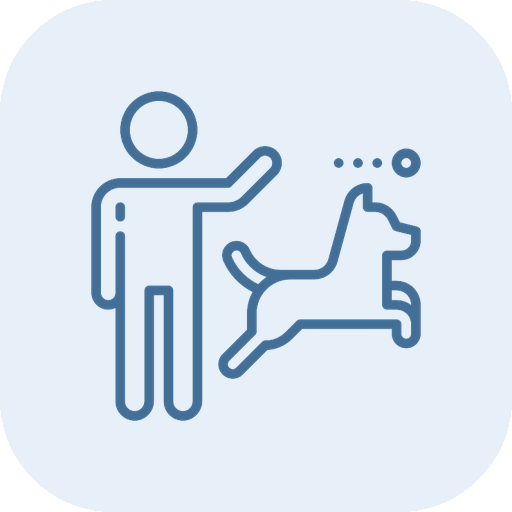
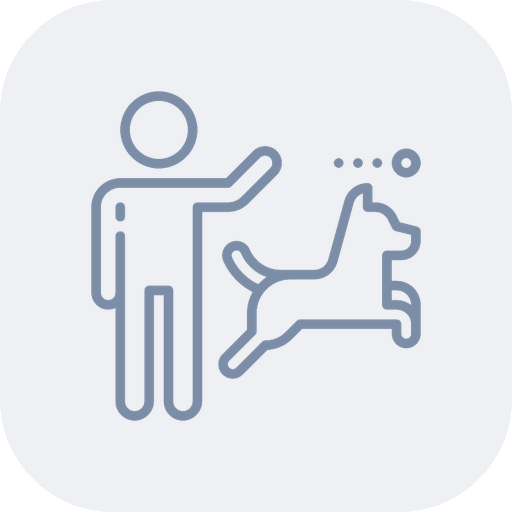
Add files via upload

Changed region(s): [[0.1562, 0.1562, 0.8438, 0.8438]]

diff --git a/styles.css b/styles.css
@@ -1,1 +1,3 @@
-:root{--bg:#f7f5f1;--panel:#fbfaf8;--sidebar:#fbfaf8;--text:#20262a;--muted:#69757d;--faint:#8b969d;--line:#ddd9d1;--blue:#4f7da6;--blue-dark:#315f88;--blue-soft:#e7f0f9;--shadow:0 8px 24px rgba(31,37,41,.07);font-family:Inter,-apple-system,BlinkMacSystemFont,"Segoe UI",sans-serif;color:var(--text);background:var(--bg)}*{box-sizing:border-box}html,body{margin:0;min-height:100%;background:var(--bg)}button,input,select,textarea{font:inherit;color:inherit}button{cursor:pointer}.app-shell{display:grid;grid-template-columns:305px minmax(0,1fr);min-height:100vh}.sidebar{position:sticky;top:0;height:100vh;padding:28px 22px 18px;background:var(--sidebar);border-right:1px solid var(--line);display:flex;flex-direction:column;overflow:auto}.brand-row{display:flex;gap:14px;align-items:center;margin:0 8px 34px}.app-icon{width:54px;height:54px;border-radius:14px;box-shadow:0 2px 8px rgba(58,95,128,.08)}.brand-copy h1{font-family:Literata,Georgia,serif;font-size:30px;line-height:1;margin:0 0 5px;font-weight:600;letter-spacing:-.4px}.brand-copy p{font-size:14px;line-height:1.25;color:var(--muted);margin:0}.nav-section{margin-bottom:25px}.section-label{font-size:12px;letter-spacing:.12em;text-transform:uppercase;font-weight:700;color:#87939b;margin:0 12px 9px}.nav-item{width:100%;border:0;background:transparent;border-radius:13px;display:flex;align-items:center;justify-content:space-between;gap:12px;padding:11px 12px;font-size:17px;line-height:1.2;text-align:left;margin:2px 0;transition:.15s ease}.nav-item:hover{background:#f0ede7}.nav-item.active{background:var(--blue-soft);color:#2e5778}.nav-left{display:flex;align-items:center;gap:12px;min-width:0}.nav-icon{width:20px;height:20px;flex:none}.nav-count{font-size:14px;color:var(--muted);font-variant-numeric:tabular-nums}.area-dot{width:10px;height:10px;border-radius:50%;flex:none}.area-nav.active{background:var(--area-tint,#edf2f6);color:var(--text)}.sidebar-footer{margin-top:auto;border-top:1px solid var(--line);padding:16px 10px 0;display:flex;justify-content:space-between;gap:12px;color:var(--muted);font-size:12px}.status-dot{display:inline-block;width:7px;height:7px;border-radius:50%;background:#4f9868;margin-right:7px}.main-panel{min-width:0}.topbar{position:sticky;top:0;z-index:20;height:96px;border-bottom:1px solid var(--line);background:rgba(247,245,241,.94);backdrop-filter:blur(18px);display:flex;align-items:center;gap:16px;padding:20px 32px}.search-shell{min-width:220px;flex:1;height:54px;border:1px solid #ccd8e4;border-radius:16px;background:#edf4ff;display:flex;align-items:center;gap:12px;padding:0 16px;box-shadow:inset 0 0 0 1px rgba(79,125,166,.03)}.search-shell svg{width:22px;height:22px;color:#587a98;flex:none}.search-shell input{border:0;background:transparent;outline:0;width:100%;font-size:17px;line-height:1;color:var(--text)}.search-shell input::placeholder{color:#72869a}.top-actions{display:flex;align-items:center;gap:12px}.view-toggle{display:flex;border:1px solid var(--line);background:white;border-radius:13px;padding:3px}.view-toggle button{width:42px;height:42px;border:0;border-radius:9px;background:transparent;color:#55636c;display:grid;place-items:center}.view-toggle button.active{background:#e8edf1;color:#1f2c35}.view-toggle svg,.primary-button svg,.outline-button svg{width:19px;height:19px}.primary-button,.secondary-button,.outline-button,.done-button,.text-button{border-radius:11px;padding:11px 15px;border:0;display:inline-flex;align-items:center;justify-content:center;gap:8px;font-size:15px;font-weight:600;white-space:nowrap}.primary-button{background:#20272b;color:#fff}.secondary-button,.outline-button{background:#fff;border:1px solid var(--line);color:#46535c}.text-button{background:transparent;color:var(--blue-dark)}.done-button{background:#20272b;color:white}.content{padding:38px 40px 70px;max-width:1500px}.notice{position:fixed;top:112px;left:50%;transform:translate(-50%,-10px);z-index:60;background:#20272b;color:#fff;padding:11px 16px;border-radius:11px;opacity:0;pointer-events:none;transition:.18s ease;font-size:14px;box-shadow:var(--shadow)}.notice.show{opacity:1;transform:translate(-50%,0)}.heading-row{display:flex;justify-content:space-between;align-items:flex-end;gap:32px;margin-bottom:18px}.heading-copy h2{font-family:Literata,Georgia,serif;font-size:38px;line-height:1.08;margin:0 0 7px;letter-spacing:-.6px;font-weight:600}.heading-copy p{margin:0;color:var(--muted);font-size:15px}.data-tools{display:flex;align-items:flex-end;gap:12px}.filter-wrap,.sort-wrap{position:relative;display:flex;flex-direction:column;gap:6px}.tool-label{font-size:11px;font-weight:700;color:#6f7b83}.outline-button{padding:10px 13px}.filter-badge{min-width:18px;height:18px;border-radius:9px;background:#e4e8eb;font-size:10px;display:none;align-items:center;justify-content:center}.filter-badge.show{display:inline-flex}.sort-wrap select{height:42px;border:1px solid var(--line);border-radius:11px;background:#fff;padding:0 34px 0 12px;font-size:14px}.filter-panel{position:absolute;right:0;top:65px;width:340px;background:#fff;border:1px solid var(--line);border-radius:15px;box-shadow:0 18px 48px rgba(26,32,36,.14);padding:18px;display:none;z-index:40}.filter-panel.show{display:block}.filter-panel h3{font-family:Literata,Georgia,serif;margin:0 0 14px;font-size:20px}.filter-field{margin:12px 0}.filter-field label,.field label{display:block;font-size:12px;font-weight:700;color:#6d7880;margin-bottom:6px}.filter-field input,.filter-field select,.field input,.field select,.field textarea{width:100%;border:1px solid var(--line);background:#fff;border-radius:10px;padding:10px 11px;outline:0;font-size:14px}.filter-field input:focus,.filter-field select:focus,.field input:focus,.field select:focus,.field textarea:focus{border-color:#9eb7cf;box-shadow:0 0 0 3px rgba(79,125,166,.1)}.filter-actions{display:flex;justify-content:space-between;align-items:center;margin-top:16px}.active-filters{display:flex;flex-wrap:wrap;gap:8px;min-height:8px;margin-bottom:18px}.filter-chip{border:1px solid #cfd7de;background:#f6f8fa;color:#41515d;border-radius:999px;padding:7px 11px;font-size:12px;display:flex;align-items:center;gap:7px}.filter-chip b{font-weight:600}.filter-chip span{font-size:14px;color:#75828b}.items{display:grid;gap:20px}.items.cards{grid-template-columns:repeat(auto-fill,minmax(310px,360px));align-items:start}.items.gallery{grid-template-columns:repeat(auto-fill,minmax(390px,1fr));align-items:start}.items.list{display:flex;flex-direction:column;max-width:1050px}.item-card{position:relative;background:#fff;border:1px solid var(--line);border-radius:17px;overflow:hidden;box-shadow:0 2px 6px rgba(31,37,41,.025);transition:transform .14s ease,box-shadow .14s ease,border-color .14s ease;cursor:pointer}.item-card:hover{transform:translateY(-1px);box-shadow:var(--shadow);border-color:#d1ccc3}.shot-wrap{position:relative;background:#ece9e2;overflow:hidden}.cards .shot-wrap{aspect-ratio:1.38}.gallery .shot-wrap{aspect-ratio:16/9}.shot-wrap img{width:100%;height:100%;object-fit:cover;display:block}.shot-fallback{height:100%;display:grid;place-items:center;padding:28px;text-align:center;color:#6b777f;background:linear-gradient(145deg,#f0ede8,#e4e9ed)}.type-pill{position:absolute;top:12px;left:12px;background:rgba(32,39,43,.78);color:#fff;border-radius:999px;padding:6px 10px;font-size:11px;font-weight:600;backdrop-filter:blur(6px)}.star-button{position:absolute;top:10px;right:10px;width:38px;height:38px;border-radius:10px;border:1px solid rgba(255,255,255,.65);background:rgba(32,39,43,.72);color:#fff;display:grid;place-items:center;z-index:3}.star-button svg{width:20px;height:20px}.star-button.is-starred svg{fill:currentColor}.card-body{padding:15px 16px 16px}.item-title{font-size:18px;line-height:1.28;font-weight:700;margin:0 0 9px;letter-spacing:-.18px}.item-meta{display:flex;align-items:center;justify-content:space-between;gap:12px;color:var(--muted);font-size:13px}.domain-line{display:flex;align-items:center;gap:7px;min-width:0}.domain-line span:last-child{overflow:hidden;text-overflow:ellipsis;white-space:nowrap}.tags-row{display:flex;flex-wrap:wrap;gap:6px;margin-top:12px}.area-chip,.tag-chip{border-radius:999px;padding:5px 9px;font-size:11px;border:1px solid transparent;line-height:1.1}.area-chip{background:var(--area-tint,#edf2f6);color:#33434e;font-weight:600;display:inline-flex;align-items:center;gap:6px}.area-chip .area-dot{width:7px;height:7px}.tag-chip{background:#f2f3f4;border-color:#e2e4e5;color:#50606a}.tag-chip:hover{background:#e9eef2}.page-date{white-space:nowrap}.list .item-card{display:grid;grid-template-columns:290px minmax(0,1fr);min-height:182px}.list .shot-wrap{height:100%;min-height:182px}.list .card-body{padding:24px 24px;display:flex;flex-direction:column;justify-content:center}.list .item-title{font-size:20px}.list .star-button{top:14px;left:238px;right:auto}.list .item-meta{justify-content:flex-start;gap:22px}.gallery .item-title{font-size:20px}.gallery .card-body{padding:17px 18px 18px}.empty{display:none;color:var(--muted);padding:80px 10px;font-size:16px}.empty.show{display:block}.backdrop{position:fixed;inset:0;background:rgba(31,37,41,.26);backdrop-filter:blur(3px);display:none;align-items:center;justify-content:center;padding:24px;z-index:100}.backdrop.show{display:flex}.dialog{width:min(580px,100%);max-height:90vh;overflow:auto;background:#fbfaf8;border:1px solid var(--line);border-radius:18px;padding:23px;box-shadow:0 28px 70px rgba(20,26,30,.22)}.wide-dialog{width:min(720px,100%)}.dialog h3{font-family:Literata,Georgia,serif;font-size:24px;margin:0 0 5px}.dialog>p{margin:0 0 18px;color:var(--muted);font-size:14px;line-height:1.5}.field{margin:13px 0}.field-row{display:grid;grid-template-columns:1fr 1fr;gap:12px}.field textarea{min-height:90px;resize:vertical}.optional{font-weight:400;color:#9aa2a7}.dialog-actions{display:flex;justify-content:flex-end;gap:9px;margin-top:19px}.action-field{display:flex;align-items:flex-end}.copy-row{display:flex;gap:8px}.copy-row input{flex:1}.token-warning{font-size:12px;color:#8b5a4e}.device-list{margin-top:20px;border-top:1px solid var(--line)}.device-row{display:flex;justify-content:space-between;gap:12px;padding:13px 0;border-bottom:1px solid var(--line)}.device-row strong,.device-row span{display:block}.device-row span{font-size:12px;color:var(--muted);margin-top:3px}.device-row button{border:1px solid var(--line);background:white;border-radius:8px;padding:7px 9px}.account-nav{margin-top:4px}@media(max-width:900px){.app-shell{grid-template-columns:1fr}.sidebar{position:relative;height:auto;border-right:0;border-bottom:1px solid var(--line)}.topbar{top:0}.content{padding:28px 22px 60px}.heading-row{align-items:flex-start;flex-direction:column}.data-tools{width:100%;justify-content:flex-end}.items.cards{grid-template-columns:repeat(auto-fill,minmax(280px,1fr))}}@media(max-width:620px){.sidebar{padding:20px 16px}.brand-row{margin-bottom:22px}.topbar{height:auto;padding:12px 14px;flex-wrap:wrap}.search-shell{order:1;width:100%;flex-basis:100%;height:50px}.top-actions{width:100%;justify-content:space-between}.content{padding:24px 14px 50px}.heading-copy h2{font-size:32px}.data-tools{justify-content:space-between}.filter-panel{position:fixed;inset:auto 12px 12px 12px;width:auto;top:auto}.items.cards,.items.gallery{grid-template-columns:1fr}.list .item-card{grid-template-columns:125px minmax(0,1fr);min-height:130px}.list .shot-wrap{min-height:130px}.list .star-button{left:79px;width:34px;height:34px}.list .card-body{padding:14px}.list .item-title{font-size:15px}.list .tags-row{display:none}.field-row{grid-template-columns:1fr}}
+:root{--bg:#f7f5f1;--panel:#fbfaf8;--sidebar:#fbfaf8;--text:#20262a;--muted:#69757d;--faint:#8b969d;--line:#ddd9d1;--blue:#7c8da7;--blue-dark:#5f7089;--blue-soft:#e9edf3;--shadow:0 8px 24px rgba(31,37,41,.07);font-family:Inter,-apple-system,BlinkMacSystemFont,"Segoe UI",sans-serif;color:var(--text);background:var(--bg)}*{box-sizing:border-box}html,body{margin:0;min-height:100%;background:var(--bg)}button,input,select,textarea{font:inherit;color:inherit}button{cursor:pointer}.app-shell{display:grid;grid-template-columns:305px minmax(0,1fr);min-height:100vh}.sidebar{position:sticky;top:0;height:100vh;padding:28px 22px 18px;background:var(--sidebar);border-right:1px solid var(--line);display:flex;flex-direction:column;overflow:auto}.brand-row{display:flex;gap:14px;align-items:center;margin:0 8px 34px}.app-icon{width:54px;height:54px;border-radius:14px;box-shadow:0 2px 8px rgba(96,112,137,.08)}.brand-copy h1{font-family:Literata,Georgia,serif;font-size:30px;line-height:1;margin:0 0 5px;font-weight:600;letter-spacing:-.4px}.brand-copy p{font-size:14px;line-height:1.25;color:var(--muted);margin:0}.nav-section{margin-bottom:25px}.section-label{font-size:12px;letter-spacing:.12em;text-transform:uppercase;font-weight:700;color:#87939b;margin:0 12px 9px}.nav-item{width:100%;border:0;background:transparent;border-radius:13px;display:flex;align-items:center;justify-content:space-between;gap:12px;padding:11px 12px;font-size:17px;line-height:1.2;text-align:left;margin:2px 0;transition:.15s ease}.nav-item:hover{background:#f0ede7}.nav-item.active{background:var(--blue-soft);color:#4f5f76}.nav-left{display:flex;align-items:center;gap:12px;min-width:0}.nav-icon{width:20px;height:20px;flex:none}.nav-count{font-size:14px;color:var(--muted);font-variant-numeric:tabular-nums}.area-dot{width:10px;height:10px;border-radius:50%;flex:none}.area-nav.active{background:var(--area-tint,#edf2f6);color:var(--text)}.sidebar-footer{margin-top:auto;border-top:1px solid var(--line);padding:16px 10px 0;display:flex;justify-content:space-between;gap:12px;color:var(--muted);font-size:12px}.status-dot{display:inline-block;width:7px;height:7px;border-radius:50%;background:#4f9868;margin-right:7px}.main-panel{min-width:0}.topbar{position:sticky;top:0;z-index:20;height:96px;border-bottom:1px solid var(--line);background:rgba(247,245,241,.94);backdrop-filter:blur(18px);display:flex;align-items:center;gap:16px;padding:20px 32px}.search-shell{min-width:220px;flex:1;height:54px;border:1px solid #d2d8e0;border-radius:16px;background:#eef1f5;display:flex;align-items:center;gap:12px;padding:0 16px;box-shadow:inset 0 0 0 1px rgba(124,141,167,.03)}.search-shell svg{width:22px;height:22px;color:var(--blue-dark);flex:none}.search-box{border:0;background:transparent;outline:0;width:100%;font-size:17px;line-height:1.3;color:var(--text);white-space:nowrap;overflow:hidden;min-height:22px}.search-box:empty::before{content:attr(data-placeholder);color:#778394;pointer-events:none}.search-box:focus{outline:none}.top-actions{display:flex;align-items:center;gap:12px}.view-toggle{display:flex;border:1px solid var(--line);background:white;border-radius:13px;padding:3px}.view-toggle button{width:42px;height:42px;border:0;border-radius:9px;background:transparent;color:#55636c;display:grid;place-items:center}.view-toggle button.active{background:#e8edf1;color:#1f2c35}.view-toggle svg,.primary-button svg,.outline-button svg{width:19px;height:19px}.primary-button,.secondary-button,.outline-button,.done-button,.text-button{border-radius:11px;padding:11px 15px;border:0;display:inline-flex;align-items:center;justify-content:center;gap:8px;font-size:15px;font-weight:600;white-space:nowrap}.primary-button{background:#20272b;color:#fff}.secondary-button,.outline-button{background:#fff;border:1px solid var(--line);color:#46535c}.text-button{background:transparent;color:var(--blue-dark)}.done-button{background:#20272b;color:white}.content{padding:38px 40px 70px;max-width:1500px}.notice{position:fixed;top:112px;left:50%;transform:translate(-50%,-10px);z-index:60;background:#20272b;color:#fff;padding:11px 16px;border-radius:11px;opacity:0;pointer-events:none;transition:.18s ease;font-size:14px;box-shadow:var(--shadow)}.notice.show{opacity:1;transform:translate(-50%,0)}.heading-row{display:flex;justify-content:space-between;align-items:flex-end;gap:32px;margin-bottom:18px}.heading-copy h2{font-family:Literata,Georgia,serif;font-size:38px;line-height:1.08;margin:0 0 7px;letter-spacing:-.6px;font-weight:600}.heading-copy p{margin:0;color:var(--muted);font-size:15px}.data-tools{display:flex;align-items:flex-end;gap:12px}.filter-wrap,.sort-wrap{position:relative;display:flex;flex-direction:column;gap:6px}.tool-label{font-size:11px;font-weight:700;color:#6f7b83}.outline-button{padding:10px 13px}.filter-badge{min-width:18px;height:18px;border-radius:9px;background:#e4e8eb;font-size:10px;display:none;align-items:center;justify-content:center}.filter-badge.show{display:inline-flex}.sort-wrap select{height:42px;border:1px solid var(--line);border-radius:11px;background:#fff;padding:0 34px 0 12px;font-size:14px}.filter-panel{position:absolute;right:0;top:65px;width:340px;background:#fff;border:1px solid var(--line);border-radius:15px;box-shadow:0 18px 48px rgba(26,32,36,.14);padding:18px;display:none;z-index:40}.filter-panel.show{display:block}.filter-panel h3{font-family:Literata,Georgia,serif;margin:0 0 14px;font-size:20px}.filter-field{margin:12px 0}.filter-field label,.field label{display:block;font-size:12px;font-weight:700;color:#6d7880;margin-bottom:6px}.filter-field input,.filter-field select,.field input,.field select,.field textarea{width:100%;border:1px solid var(--line);background:#fff;border-radius:10px;padding:10px 11px;outline:0;font-size:14px}.filter-field input:focus,.filter-field select:focus,.field input:focus,.field select:focus,.field textarea:focus{border-color:#aeb8c7;box-shadow:0 0 0 3px rgba(124,141,167,.12)}.filter-actions{display:flex;justify-content:space-between;align-items:center;margin-top:16px}.active-filters{display:flex;flex-wrap:wrap;gap:8px;min-height:8px;margin-bottom:18px}.filter-chip{border:1px solid #cfd7de;background:#f6f8fa;color:#41515d;border-radius:999px;padding:7px 11px;font-size:12px;display:flex;align-items:center;gap:7px}.filter-chip b{font-weight:600}.filter-chip span{font-size:14px;color:#75828b}.items{display:grid;gap:20px}.items.cards{grid-template-columns:repeat(auto-fill,minmax(310px,360px));align-items:start}.items.gallery{grid-template-columns:repeat(auto-fill,minmax(390px,1fr));align-items:start}.items.list{display:flex;flex-direction:column;max-width:1050px}.item-card{position:relative;background:#fff;border:1px solid var(--line);border-radius:17px;overflow:hidden;box-shadow:0 2px 6px rgba(31,37,41,.025);transition:transform .14s ease,box-shadow .14s ease,border-color .14s ease;cursor:pointer}.item-card:hover{transform:translateY(-1px);box-shadow:var(--shadow);border-color:#d1ccc3}.shot-wrap{position:relative;background:#ece9e2;overflow:hidden}.cards .shot-wrap{aspect-ratio:1.38}.gallery .shot-wrap{aspect-ratio:16/9}.shot-wrap img{width:100%;height:100%;object-fit:cover;display:block}.shot-fallback{height:100%;display:grid;place-items:center;padding:28px;text-align:center;color:#6b777f;background:linear-gradient(145deg,#f0ede8,#e4e9ed)}.type-pill{position:absolute;top:12px;left:12px;background:rgba(32,39,43,.78);color:#fff;border-radius:999px;padding:6px 10px;font-size:11px;font-weight:600;backdrop-filter:blur(6px)}.star-button{position:absolute;top:10px;right:10px;width:38px;height:38px;border-radius:10px;border:1px solid rgba(255,255,255,.65);background:rgba(32,39,43,.72);color:#fff;display:grid;place-items:center;z-index:3}.star-button svg{width:20px;height:20px}.star-button.is-starred svg{fill:currentColor}.card-body{padding:15px 16px 16px}.item-title{font-size:18px;line-height:1.28;font-weight:700;margin:0 0 9px;letter-spacing:-.18px}.item-meta{display:flex;align-items:center;justify-content:space-between;gap:12px;color:var(--muted);font-size:13px}.domain-line{display:flex;align-items:center;gap:7px;min-width:0}.domain-line span:last-child{overflow:hidden;text-overflow:ellipsis;white-space:nowrap}.tags-row{display:flex;flex-wrap:wrap;gap:6px;margin-top:12px}.area-chip,.tag-chip{border-radius:999px;padding:5px 9px;font-size:11px;border:1px solid transparent;line-height:1.1}.area-chip{background:var(--area-tint,#edf2f6);color:#33434e;font-weight:600;display:inline-flex;align-items:center;gap:6px}.area-chip .area-dot{width:7px;height:7px}.tag-chip{background:#f2f3f4;border-color:#e2e4e5;color:#50606a}.tag-chip:hover{background:#e9eef2}.page-date{white-space:nowrap}.list .item-card{display:grid;grid-template-columns:290px minmax(0,1fr);min-height:182px}.list .shot-wrap{height:100%;min-height:182px}.list .card-body{padding:24px 24px;display:flex;flex-direction:column;justify-content:center}.list .item-title{font-size:20px}.list .star-button{top:14px;left:238px;right:auto}.list .item-meta{justify-content:flex-start;gap:22px}.gallery .item-title{font-size:20px}.gallery .card-body{padding:17px 18px 18px}.empty{display:none;color:var(--muted);padding:80px 10px;font-size:16px}.empty.show{display:block}.backdrop{position:fixed;inset:0;background:rgba(31,37,41,.26);backdrop-filter:blur(3px);display:none;align-items:center;justify-content:center;padding:24px;z-index:100}.backdrop.show{display:flex}.dialog{width:min(580px,100%);max-height:90vh;overflow:auto;background:#fbfaf8;border:1px solid var(--line);border-radius:18px;padding:23px;box-shadow:0 28px 70px rgba(20,26,30,.22)}.wide-dialog{width:min(720px,100%)}.dialog h3{font-family:Literata,Georgia,serif;font-size:24px;margin:0 0 5px}.dialog>p{margin:0 0 18px;color:var(--muted);font-size:14px;line-height:1.5}.field{margin:13px 0}.field-row{display:grid;grid-template-columns:1fr 1fr;gap:12px}.field textarea{min-height:90px;resize:vertical}.optional{font-weight:400;color:#9aa2a7}.dialog-actions{display:flex;justify-content:flex-end;gap:9px;margin-top:19px}.action-field{display:flex;align-items:flex-end}.copy-row{display:flex;gap:8px}.copy-row input{flex:1}.token-warning{font-size:12px;color:#8b5a4e}.device-list{margin-top:20px;border-top:1px solid var(--line)}.device-row{display:flex;justify-content:space-between;gap:12px;padding:13px 0;border-bottom:1px solid var(--line)}.device-row strong,.device-row span{display:block}.device-row span{font-size:12px;color:var(--muted);margin-top:3px}.device-row button{border:1px solid var(--line);background:white;border-radius:8px;padding:7px 9px}.account-nav{margin-top:4px}@media(max-width:900px){.app-shell{grid-template-columns:1fr}.sidebar{position:relative;height:auto;border-right:0;border-bottom:1px solid var(--line)}.topbar{top:0}.content{padding:28px 22px 60px}.heading-row{align-items:flex-start;flex-direction:column}.data-tools{width:100%;justify-content:flex-end}.items.cards{grid-template-columns:repeat(auto-fill,minmax(280px,1fr))}}@media(max-width:620px){.sidebar{padding:20px 16px}.brand-row{margin-bottom:22px}.topbar{height:auto;padding:12px 14px;flex-wrap:wrap}.search-shell{order:1;width:100%;flex-basis:100%;height:50px}.top-actions{width:100%;justify-content:space-between}.content{padding:24px 14px 50px}.heading-copy h2{font-size:32px}.data-tools{justify-content:space-between}.filter-panel{position:fixed;inset:auto 12px 12px 12px;width:auto;top:auto}.items.cards,.items.gallery{grid-template-columns:1fr}.list .item-card{grid-template-columns:125px minmax(0,1fr);min-height:130px}.list .shot-wrap{min-height:130px}.list .star-button{left:79px;width:34px;height:34px}.list .card-body{padding:14px}.list .item-title{font-size:15px}.list .tags-row{display:none}.field-row{grid-template-columns:1fr}}
+
+.hover-preview{position:fixed;z-index:90;pointer-events:none;width:min(680px,48vw);aspect-ratio:16/10;border-radius:16px;overflow:hidden;border:1px solid rgba(255,255,255,.78);box-shadow:0 28px 90px rgba(0,0,0,.26);opacity:0;transform:scale(.96);transition:opacity .12s ease,transform .12s ease;background:#fff}.hover-preview.show{opacity:1;transform:scale(1)}.hover-preview img{width:100%;height:100%;object-fit:cover;display:block}.hover-preview .shot-fallback{width:100%;height:100%}@media(max-width:900px){.hover-preview{display:none}}

diff --git a/app.js b/app.js
@@ -5,8 +5,8 @@ const $ = id => document.getElementById(id);
 const esc = (v='') => String(v).replace(/[&<>"']/g,m=>({'&':'&amp;','<':'&lt;','>':'&gt;','"':'&quot;',"'":'&#39;'}[m]));
 const safeJSON=(v,f)=>{try{return v?JSON.parse(v):f}catch{return f}};
 const now=()=>new Date();
-const AREA_COLORS={Watches:'#5b82a4',Technology:'#5a9163',Books:'#8a6bb0',Reading:'#8a6bb0',Restaurants:'#b77554','Food & Drink':'#b77554',Photography:'#b18454',Travel:'#568f94'};
-const COLOR_POOL=['#5b82a4','#5a9163','#8a6bb0','#b77554','#b18454','#568f94','#8b7a68','#6b879b'];
+const AREA_COLORS={Watches:'#7c8da7',Technology:'#718d75',Books:'#8a789f',Reading:'#8a789f',Restaurants:'#a97d68','Food & Drink':'#a97d68',Photography:'#9b8268',Travel:'#6f9295'};
+const COLOR_POOL=['#7c8da7','#718d75','#8a789f','#a97d68','#9b8268','#6f9295','#8b7f72','#728696'];
 let items=[],store=null,supabaseClient=null,currentUser=null,searchInput=null;
 const prefs=safeJSON(localStorage.getItem(PREF_KEY),{});
 const state={area:null,tag:null,domain:'',special:'all',query:'',date:null,pageDate:null,type:null,sort:prefs.sort||'newest',view:prefs.view||'cards'};
@@ -61,13 +61,32 @@ async function initStore(){
   const {createClient}=await import('https://cdn.jsdelivr.net/npm/@supabase/supabase-js@2/+esm');
   supabaseClient=createClient(CONFIG.supabaseUrl,CONFIG.supabaseAnonKey,{auth:{persistSession:true,detectSessionInUrl:true,autoRefreshToken:true}});
   const {data:{session}}=await supabaseClient.auth.getSession();currentUser=session?.user||null;store=new SupabaseStore(supabaseClient);$('modeLabel').innerHTML='<span class="status-dot"></span>Supabase';
-  supabaseClient.auth.onAuthStateChange(async(_event,session)=>{currentUser=session?.user||null;updateAccountUI();await refresh()});
+  supabaseClient.auth.onAuthStateChange((event,session)=>{
+   const previousUserId=currentUser?.id||null;
+   const nextUser=session?.user||null;
+   const nextUserId=nextUser?.id||null;
+   currentUser=nextUser;
+   updateAccountUI();
+   // Supabase may emit SIGNED_IN/TOKEN_REFRESHED again when a tab regains focus.
+   // Do not rebuild the library unless the actual account changed.
+   if(previousUserId!==nextUserId){setTimeout(()=>refresh(),0)}
+  });
  }catch(err){console.error(err);store=new LocalStore();await store.init();$('modeLabel').textContent='Local fallback';showNotice('Could not connect to Supabase; using local test mode.',5000)}
 }
 
 function makeSearch(){
- const host=$('searchHost'); searchInput=document.createElement('input');searchInput.type='text';searchInput.placeholder='Search your library…';searchInput.setAttribute('aria-label','Search your Fetch library');searchInput.setAttribute('autocomplete','off');searchInput.setAttribute('autocorrect','off');searchInput.setAttribute('spellcheck','false');searchInput.value='';host.appendChild(searchInput);
- searchInput.addEventListener('input',()=>{const v=searchInput.value.trim();if(CONFIG.supabaseUrl&&v.includes('supabase.co')){searchInput.value='';state.query='';return render()}state.query=searchInput.value;render()});
+ const host=$('searchHost');
+ searchInput=document.createElement('div');
+ searchInput.className='search-box';
+ searchInput.setAttribute('contenteditable','true');
+ searchInput.setAttribute('role','searchbox');
+ searchInput.setAttribute('aria-label','Search your Fetch library');
+ searchInput.setAttribute('data-placeholder','Search your library…');
+ searchInput.setAttribute('spellcheck','false');
+ host.appendChild(searchInput);
+ searchInput.addEventListener('keydown',e=>{if(e.key==='Enter')e.preventDefault()});
+ searchInput.addEventListener('paste',e=>{e.preventDefault();const text=(e.clipboardData||window.clipboardData).getData('text/plain').replace(/[\r\n]+/g,' ');document.execCommand('insertText',false,text)});
+ searchInput.addEventListener('input',()=>{state.query=(searchInput.textContent||'').replace(/[\r\n]+/g,' ');render()});
 }
 function allAreas(){return [...new Set(items.map(i=>i.category).filter(Boolean))].sort((a,b)=>a.localeCompare(b))}
 function allTags(area=null){const pool=area?items.filter(i=>i.category===area):items;return [...new Set(pool.flatMap(i=>i.tags||[]))].sort((a,b)=>a.localeCompare(b))}
@@ -96,13 +115,34 @@ function getFiltered(){
  const cmp={newest:(a,b)=>new Date(b.saved_at)-new Date(a.saved_at),oldest:(a,b)=>new Date(a.saved_at)-new Date(b.saved_at),'page-newest':(a,b)=>(b.page_date||'').localeCompare(a.page_date||''),'page-oldest':(a,b)=>(a.page_date||'9999').localeCompare(b.page_date||'9999'),domain:(a,b)=>a.domain.localeCompare(b.domain),area:(a,b)=>a.category.localeCompare(b.category),title:(a,b)=>a.title.localeCompare(b.title)}[state.sort];return rows.sort(cmp||(()=>0));
 }
 function titleForView(){if(state.area)return state.area;if(state.special==='recent')return'Recent';if(state.special==='starred')return'Starred';return'Everything'}
-function cardHTML(item){const color=areaColor(item.category);const tint=hexToRgba(color,.12);const tags=(item.tags||[]).map(t=>`<button class="tag-chip" data-tag="${esc(t)}">${esc(t)}</button>`).join('');const shot=item.screenshot_url?`<img src="${esc(item.screenshot_url)}" alt="Saved viewport of ${esc(item.title)}" loading="lazy">`:`<div class="shot-fallback">${esc(item.domain||'Saved page')}</div>`;return `<article class="item-card" data-open="${esc(item.url)}" tabindex="0" aria-label="Open ${esc(item.title)}"><div class="shot-wrap">${shot}<span class="type-pill">${esc(item.capture_type||'Page')}</span><button class="star-button ${item.starred?'is-starred':''}" data-star="${item.id}" aria-label="${item.starred?'Unstar':'Star'}"><svg viewBox="0 0 24 24" fill="none" stroke="currentColor" stroke-width="2"><path d="m12 2 3.09 6.26L22 9.27l-5 4.87 1.18 6.88L12 17.77l-6.18 3.25L7 14.14 2 9.27l6.91-1.01z"/></svg></button></div><div class="card-body"><h3 class="item-title">${esc(item.title)}</h3><div class="item-meta"><div class="domain-line"><span class="area-dot" style="background:${color}"></span><span>${esc(item.domain)}</span></div><span class="page-date">${item.page_date?fmtPage(item.page_date):fmtSaved(item.saved_at)}</span></div><div class="tags-row"><span class="area-chip" style="--area-tint:${tint}"><span class="area-dot" style="background:${color}"></span>${esc(item.category)}</span>${tags}</div></div></article>`}
+function cardHTML(item){const color=areaColor(item.category);const tint=hexToRgba(color,.12);const tags=(item.tags||[]).map(t=>`<button class="tag-chip" data-tag="${esc(t)}">${esc(t)}</button>`).join('');const shot=item.screenshot_url?`<img src="${esc(item.screenshot_url)}" alt="Saved viewport of ${esc(item.title)}" loading="lazy">`:`<div class="shot-fallback">${esc(item.domain||'Saved page')}</div>`;return `<article class="item-card" data-id="${esc(item.id)}" data-open="${esc(item.url)}" tabindex="0" aria-label="Open ${esc(item.title)}"><div class="shot-wrap">${shot}<span class="type-pill">${esc(item.capture_type||'Page')}</span><button class="star-button ${item.starred?'is-starred':''}" data-star="${item.id}" aria-label="${item.starred?'Unstar':'Star'}"><svg viewBox="0 0 24 24" fill="none" stroke="currentColor" stroke-width="2"><path d="m12 2 3.09 6.26L22 9.27l-5 4.87 1.18 6.88L12 17.77l-6.18 3.25L7 14.14 2 9.27l6.91-1.01z"/></svg></button></div><div class="card-body"><h3 class="item-title">${esc(item.title)}</h3><div class="item-meta"><div class="domain-line"><span class="area-dot" style="background:${color}"></span><span>${esc(item.domain)}</span></div><span class="page-date">${item.page_date?fmtPage(item.page_date):fmtSaved(item.saved_at)}</span></div><div class="tags-row"><span class="area-chip" style="--area-tint:${tint}"><span class="area-dot" style="background:${color}"></span>${esc(item.category)}</span>${tags}</div></div></article>`}
 function render(){
  const rows=getFiltered();$('viewTitle').textContent=titleForView();$('resultText').textContent=`${rows.length} item${rows.length===1?'':'s'} · ${state.view==='list'?'compact list':state.view==='gallery'?'visual gallery':'visual bookmarks'}`;$('items').innerHTML=rows.map(cardHTML).join('');$('empty').classList.toggle('show',!rows.length);$('items').style.display=rows.length?'':'none';
- document.querySelectorAll('[data-open]').forEach(card=>{const open=()=>window.open(card.dataset.open,'_blank','noopener');card.addEventListener('click',e=>{if(e.target.closest('button'))return;open()});card.addEventListener('keydown',e=>{if((e.key==='Enter'||e.key===' ')&&!e.target.closest('button')){e.preventDefault();open()}})});
+ document.querySelectorAll('[data-open]').forEach(card=>{
+  const item=items.find(i=>String(i.id)===String(card.dataset.id));
+  const open=()=>window.open(card.dataset.open,'_blank','noopener');
+  card.addEventListener('click',e=>{if(e.target.closest('button'))return;open()});
+  card.addEventListener('keydown',e=>{if((e.key==='Enter'||e.key===' ')&&!e.target.closest('button')){e.preventDefault();open()}});
+  card.addEventListener('mouseenter',e=>showHoverPreview(item,e));
+  card.addEventListener('mousemove',moveHoverPreview);
+  card.addEventListener('mouseleave',hideHoverPreview);
+ });
  document.querySelectorAll('[data-star]').forEach(btn=>btn.addEventListener('click',async e=>{e.stopPropagation();const item=items.find(i=>i.id===btn.dataset.star);if(!item)return;await store.update(item.id,{starred:!item.starred});await refresh()}));
  document.querySelectorAll('[data-tag]').forEach(btn=>btn.addEventListener('click',e=>{e.stopPropagation();state.tag=btn.dataset.tag;state.special='all';syncControls();render()}));buildNav();
 }
+
+function showHoverPreview(item,e){
+ if(window.innerWidth<900||!item)return;
+ const hover=$('hoverPreview');if(!hover)return;
+ hover.innerHTML=item.screenshot_url?`<img src="${esc(item.screenshot_url)}" alt="">`:`<div class="shot-fallback">${esc(item.domain||'Saved page')}</div>`;
+ hover.classList.add('show');moveHoverPreview(e);
+}
+function moveHoverPreview(e){
+ const hover=$('hoverPreview');if(!hover||!hover.classList.contains('show'))return;
+ const pad=18,w=Math.min(680,window.innerWidth*.48),h=w/1.6;let x=e.clientX+20;if(x+w>window.innerWidth-pad)x=e.clientX-w-20;let y=e.clientY-h*.35;y=Math.max(pad,Math.min(y,window.innerHeight-h-pad));hover.style.left=x+'px';hover.style.top=y+'px';
+}
+function hideHoverPreview(){const hover=$('hoverPreview');if(hover)hover.classList.remove('show')}
+
 async function refresh(){try{items=await store.list()}catch(err){console.error(err);items=[];showNotice(err.message||'Could not load Fetch.',5000)}syncControls();render()}
 
 function openCapture(){$('captureUrl').value='';$('captureTitle').value='';$('areaInput').value=state.area||'';$('tagInput').value='';$('captureType').value='Page';$('captureNote').value='';syncControls();$('captureBackdrop').classList.add('show');setTimeout(()=>$('captureUrl').focus(),0)}
@@ -129,4 +169,4 @@ function wireUI(){
 function close(id){$(id).classList.remove('show')}
 function savePrefs(){localStorage.setItem(PREF_KEY,JSON.stringify({view:state.view,sort:state.sort}))}
 
-(async function start(){makeSearch();wireUI();await initStore();updateAccountUI();await refresh();if(searchInput){searchInput.value='';state.query=''}if(supabaseClient&&!currentUser)showNotice('Fetch is connected. Sign in to see your library.',4500)})();
+(async function start(){makeSearch();wireUI();await initStore();updateAccountUI();await refresh();if(searchInput){searchInput.textContent='';state.query=''}if(supabaseClient&&!currentUser)showNotice('Fetch is connected. Sign in to see your library.',4500)})();

diff --git a/index.html b/index.html
@@ -43,7 +43,7 @@
       <button class="nav-item" id="deviceBtn"><span class="nav-left"><svg class="nav-icon" viewBox="0 0 24 24" fill="none" stroke="currentColor" stroke-width="2"><path d="M12 2v4M12 18v4M4.93 4.93l2.83 2.83M16.24 16.24l2.83 2.83M2 12h4M18 12h4M4.93 19.07l2.83-2.83M16.24 7.76l2.83-2.83"/><circle cx="12" cy="12" r="3"/></svg><span>Browser setup</span></span></button>
     </section>
 
-    <footer class="sidebar-footer"><span id="modeLabel"><span class="status-dot"></span>Connecting…</span><span>v0.4.2</span></footer>
+    <footer class="sidebar-footer"><span id="modeLabel"><span class="status-dot"></span>Connecting…</span><span>v0.4.4</span></footer>
   </aside>
 
   <main class="main-panel">
@@ -114,6 +114,8 @@
     <div class="dialog-actions"><button class="secondary-button" id="closeDevice">Close</button></div>
   </div>
 </div>
+
+<div class="hover-preview" id="hoverPreview" aria-hidden="true"></div>
 
 <script src="config.js"></script>
 <script src="app.js"></script>

diff --git a/README.md b/README.md
@@ -1,8 +1,13 @@
-# Fetch v0.4.2
+# Fetch v0.4.4
 
 Fetch is a lightweight personal retrieval system for saving links with a tiny visual memory of the page, then refinding them through Areas, Tags, domains, dates, search, and multiple visual views.
 
-## What changed in 0.4.2
+## What changed in 0.4.4
+
+- Stops unnecessary full-library re-renders when returning to the Fetch browser tab.
+- Supabase session/token refresh events no longer cause bookmark cards to flash.
+
+## Changes retained from 0.4.2
 
 - Renamed the primary category concept to **Area**.
 - Added optional **multiple Tags** per item, with area-aware tag suggestions in the browser extension.
@@ -27,3 +32,7 @@ The Chrome extension is in `extension/chrome`. Load that folder as an unpacked e
 ## Backend
 
 The live Supabase project has already received the `fetch_tags` and `fetch_item_tags` tables and the v3 `fetch-capture` Edge Function. Existing bookmarks remain intact.
+
+- Replaced the browser-autofillable Search input with a non-form search surface so the Supabase URL cannot be injected into it.
+- Restored the large hover preview of saved viewport screenshots on desktop.
+- Standardized the primary Fetch blue on the TV-app slate blue (#7C8DA7).
